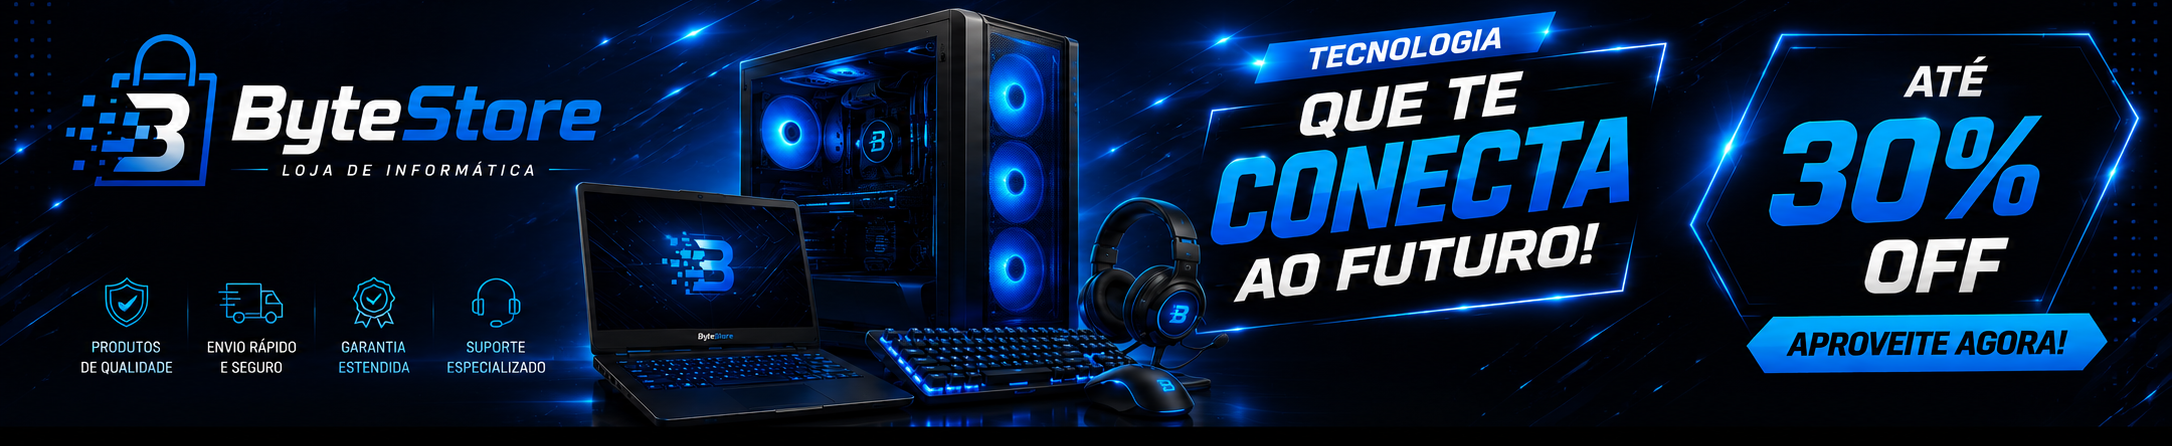
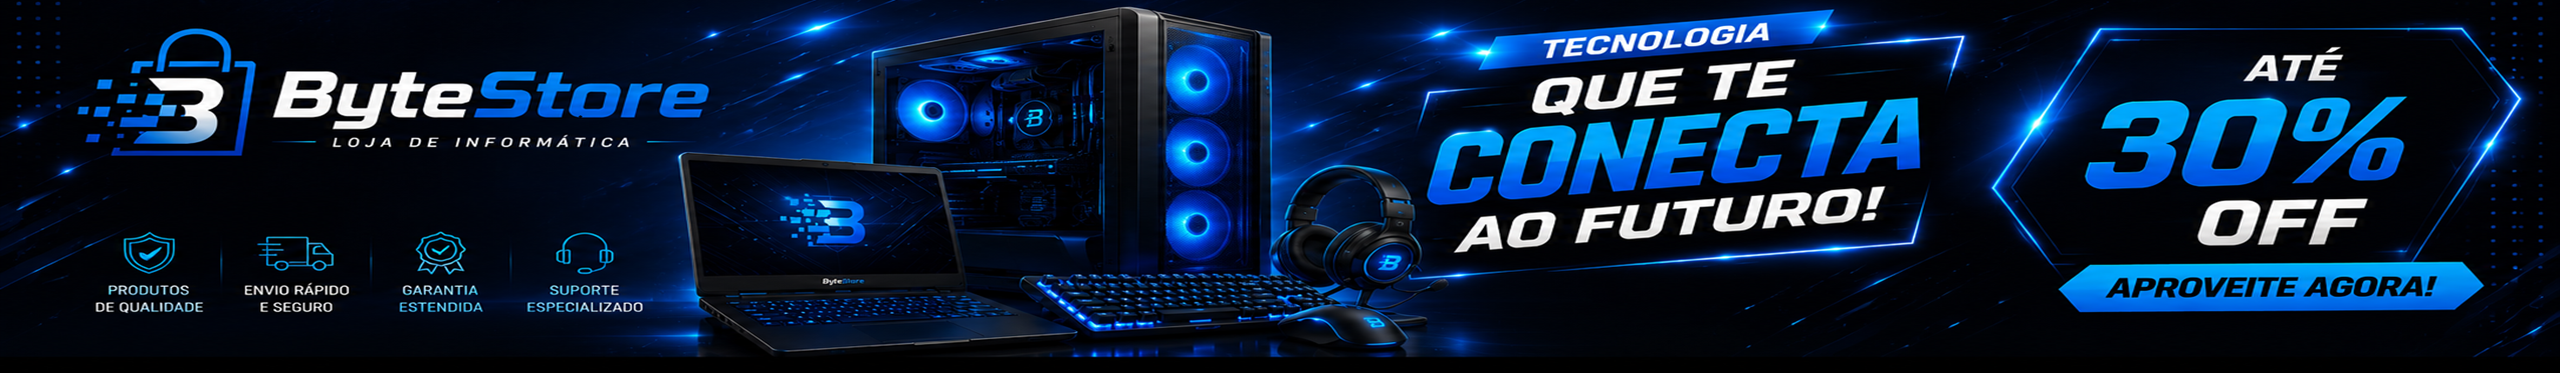
alteracoes nos codigos da catalogo e index para evitar possiveis erros futuros

diff --git a/catalogo.html b/catalogo.html
@@ -37,7 +37,7 @@
     <div id="carouselExample" class="carousel slide">
   <div class="carousel-inner">
     <div class="carousel-item active">
-      <img src="./assets/img/Copa_imagem_byte.jpg" class="d-block w-100" alt="...">
+      <img src="./assets/img/imagem 1.jpg" class="d-block w-100" alt="...">
     </div>
     <div class="carousel-item">
       <img src="./assets/img/imagem 2.png" class="d-block w-100" alt="...">
@@ -55,6 +55,71 @@
     <span class="visually-hidden">Next</span>
   </button>
 </div>
+
+<section class="container py-5">
+
+    <h2 class="text-center mb-4">Catálogo de Produtos</h2>
+
+    <!-- Busca e filtro -->
+    <div class="row mb-4">
+        <div class="col-md-8">
+            <input
+                type="text"
+                id="busca"
+                class="form-control"
+                placeholder="Buscar produto..."
+            >
+        </div>
+
+        <div class="col-md-4">
+            <select id="filtroCategoria" class="form-select">
+                <option value="todos">Todas Categorias</option>
+                <option value="notebook">Notebooks</option>
+                <option value="hardware">Hardware</option>
+                <option value="monitor">Monitores</option>
+                <option value="periferico">Periféricos</option>
+            </select>
+        </div>
+    </div>
+
+    <p class="fw-bold">
+        Exibindo <span id="contador">1</span> produtos
+    </p>
+
+    <!-- Grid -->
+    <div class="row g-4" id="catalogo">
+
+        <!-- Card -->
+        <div class="col-md-4">
+            <div class="card h-100 shadow">
+                <img src="./assets/img/rtx 4060.webp" class="card-img-top">
+
+                <div class="card-body">
+
+                    <h5 class="card-title">
+                        RTX 4060
+                    </h5>
+
+                    <p class="text-primary">
+                        Hardware
+                    </p>
+
+                    <p class="card-text">
+                        Placa de vídeo 8GB GDDR6 para jogos e edição.
+                    </p>
+
+                    <span class="badge bg-success">
+                        Disponível
+                    </span>
+
+                </div>
+            </div>
+        </div>
+
+    </div>
+
+</section>
+
 
 
 